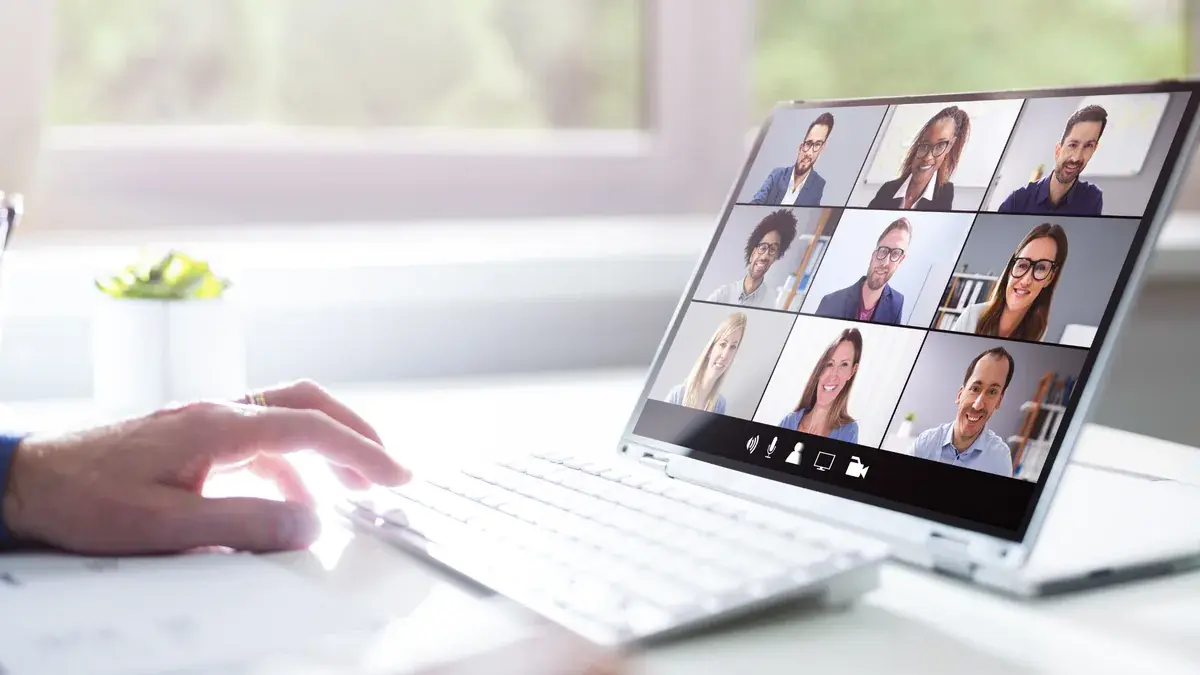
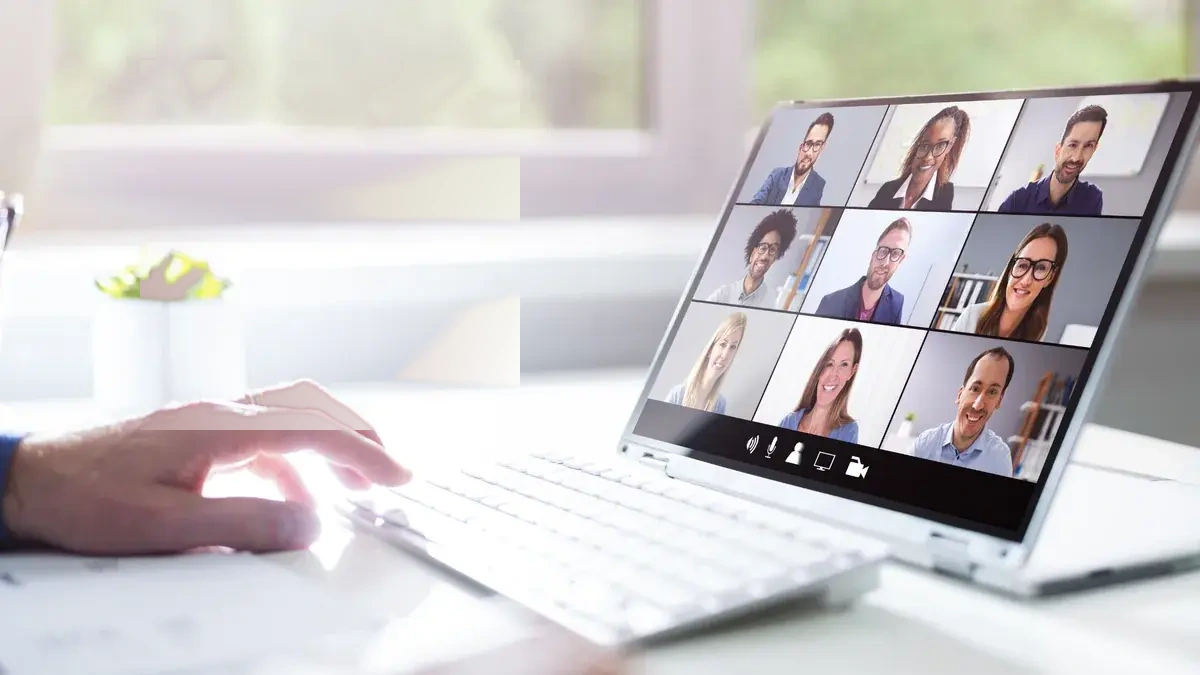
fix(events): remove map graphics from hero background image and timeline, balance hero overlay opacity

diff --git a/Sharif-Webinars-Demo_1/sharif-webinars-demo/assets/css/webinars.css b/Sharif-Webinars-Demo_1/sharif-webinars-demo/assets/css/webinars.css
@@ -802,16 +802,16 @@ html[lang="fa"] .badge, html[lang="ar"] .badge { font-size: 12px; }
   transform: scale(1);
 }
 
-/* Subtle luxury overlay ensuring background images remain clearly visible and vibrant */
+/* Refined luxury overlay with balanced opacity matching homepage hero section */
 .hero-overlay {
   position: absolute;
   inset: 0;
   z-index: 1;
   pointer-events: none;
   background:
-    linear-gradient(180deg, rgba(6, 10, 18, 0.38) 0%, rgba(6, 10, 18, 0.14) 45%, rgba(6, 10, 18, 0.7) 85%, #060a12 100%),
-    radial-gradient(ellipse 960px 520px at 50% 50%, rgba(5, 11, 20, 0.05) 0%, rgba(5, 11, 20, 0.45) 85%),
-    radial-gradient(800px 320px at 50% 120%, rgba(197, 168, 128, 0.15), transparent 70%);
+    linear-gradient(180deg, rgba(6, 10, 18, 0.72) 0%, rgba(6, 10, 18, 0.54) 40%, rgba(6, 10, 18, 0.82) 85%, #060a12 100%),
+    radial-gradient(ellipse 1100px 650px at 50% 50%, rgba(5, 11, 20, 0.35) 0%, rgba(5, 11, 20, 0.78) 100%),
+    radial-gradient(800px 320px at 50% 120%, rgba(197, 168, 128, 0.12), transparent 70%);
 }
 
 .hero-inner { position: relative; z-index: 2; padding: 110px 0 96px; text-align: center; }
@@ -1288,14 +1288,7 @@ html[lang="fa"] .series-tag, html[lang="ar"] .series-tag { font-size: 11px; }
 
 /* ---------- Animated Interactive Timeline (Mirrors Programmes Pages) ---------- */
 .timeline-bg-map {
-  position: absolute !important;
-  inset: 0 !important;
-  opacity: 0.08 !important;
-  pointer-events: none !important;
-  background-image: url('https://upload.wikimedia.org/wikipedia/commons/thumb/8/80/World_map_-_low_resolution.svg/1280px-World_map_-_low_resolution.svg.png') !important;
-  background-repeat: no-repeat !important;
-  background-position: center center !important;
-  background-size: contain !important;
+  display: none !important;
 }
 
 .timeline-track {

diff --git a/assets/css/webinars.css b/assets/css/webinars.css
@@ -802,16 +802,16 @@ html[lang="fa"] .badge, html[lang="ar"] .badge { font-size: 12px; }
   transform: scale(1);
 }
 
-/* Subtle luxury overlay ensuring background images remain clearly visible and vibrant */
+/* Refined luxury overlay with balanced opacity matching homepage hero section */
 .hero-overlay {
   position: absolute;
   inset: 0;
   z-index: 1;
   pointer-events: none;
   background:
-    linear-gradient(180deg, rgba(6, 10, 18, 0.38) 0%, rgba(6, 10, 18, 0.14) 45%, rgba(6, 10, 18, 0.7) 85%, #060a12 100%),
-    radial-gradient(ellipse 960px 520px at 50% 50%, rgba(5, 11, 20, 0.05) 0%, rgba(5, 11, 20, 0.45) 85%),
-    radial-gradient(800px 320px at 50% 120%, rgba(197, 168, 128, 0.15), transparent 70%);
+    linear-gradient(180deg, rgba(6, 10, 18, 0.72) 0%, rgba(6, 10, 18, 0.54) 40%, rgba(6, 10, 18, 0.82) 85%, #060a12 100%),
+    radial-gradient(ellipse 1100px 650px at 50% 50%, rgba(5, 11, 20, 0.35) 0%, rgba(5, 11, 20, 0.78) 100%),
+    radial-gradient(800px 320px at 50% 120%, rgba(197, 168, 128, 0.12), transparent 70%);
 }
 
 .hero-inner { position: relative; z-index: 2; padding: 110px 0 96px; text-align: center; }
@@ -1288,14 +1288,7 @@ html[lang="fa"] .series-tag, html[lang="ar"] .series-tag { font-size: 11px; }
 
 /* ---------- Animated Interactive Timeline (Mirrors Programmes Pages) ---------- */
 .timeline-bg-map {
-  position: absolute !important;
-  inset: 0 !important;
-  opacity: 0.08 !important;
-  pointer-events: none !important;
-  background-image: url('https://upload.wikimedia.org/wikipedia/commons/thumb/8/80/World_map_-_low_resolution.svg/1280px-World_map_-_low_resolution.svg.png') !important;
-  background-repeat: no-repeat !important;
-  background-position: center center !important;
-  background-size: contain !important;
+  display: none !important;
 }
 
 .timeline-track {

diff --git a/Sharif-Webinars-Demo_1/sharif-webinars-demo/assets/js/webinars-app.js b/Sharif-Webinars-Demo_1/sharif-webinars-demo/assets/js/webinars-app.js
@@ -1081,7 +1081,6 @@
     </section>
 
     <section class="section section--sand how-to-join-sec timeline-section">
-      <div class="timeline-bg-map"></div>
       <div class="container relative z-10">
         <div class="section-head section-head--centered mb-12">
           <span class="eyebrow caps"><i class="fa-regular fa-clock text-[10px]"></i> <span>${esc(t('list.timelineEyebrow') || 'TIMELINE')}</span></span>

diff --git a/assets/js/webinars-app.js b/assets/js/webinars-app.js
@@ -1081,7 +1081,6 @@
     </section>
 
     <section class="section section--sand how-to-join-sec timeline-section">
-      <div class="timeline-bg-map"></div>
       <div class="container relative z-10">
         <div class="section-head section-head--centered mb-12">
           <span class="eyebrow caps"><i class="fa-regular fa-clock text-[10px]"></i> <span>${esc(t('list.timelineEyebrow') || 'TIMELINE')}</span></span>
